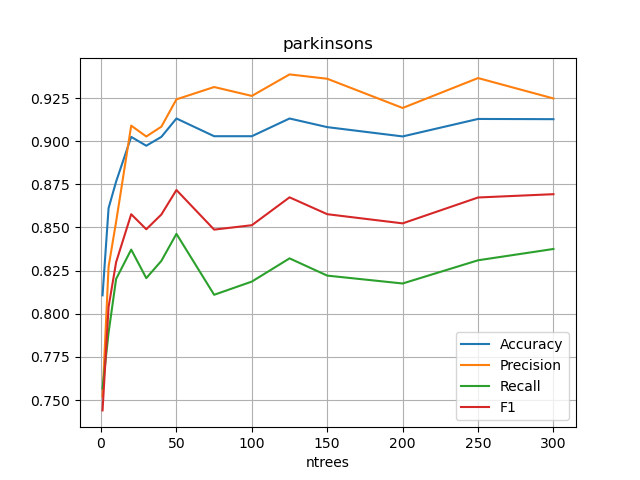
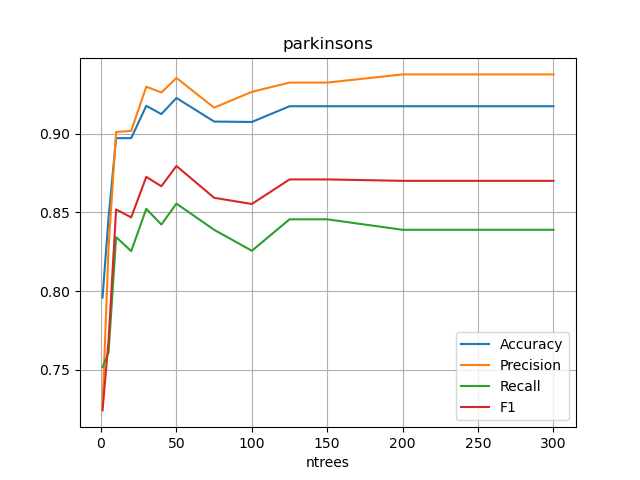
more editing to writeup

diff --git a/william/random_forest.py b/william/random_forest.py
@@ -10,7 +10,7 @@ import multiprocessing as mp
 
 
 class RandomForest:
-    def __init__(self, ntrees, k_fold=5, random_state=None, args=None):
+    def __init__(self, ntrees, k_fold=10, random_state=None, args=None):
         self.ntrees = ntrees
         self.ensemble = []
         self.k_fold = k_fold

diff --git a/william/credit_approval_results.md b/william/credit_approval_results.md
@@ -256,9 +256,9 @@ Mean Test Metrics:
 
 We found the Testing set resemble the training set in accuracy, precision, recall, and F1. This further boost the confidence of reliable results.  
 
-As we can see, $k$-NN improves performs from k=1 tp 7, as the model seek closeness from kneighboring data points. All accuracy, precision, recall, and F1 peaks at k=7, indicating maximum signal when k=7. As more data points included, the signal is diluted, and performance decline, until k=20. Performances slowly climbs afterwards for both training and testing sets. It never reach previous peaks on training set. 
+As we can see, $k$-NN improves performance from $k=1$ to 7, as the model seeks closeness from $k$ neighboring data points. Accuracy, precision, recall, and F1 all peak at $k=7$, indicating maximum signal when $k=7$. As more data points included, the signal is diluted, and performance declines until $k=20$. Performance slowly climbs afterwards for both the training and testing sets. It never reach previous peaks on training set. 
 
-How to pick the best $k$ values? I would like to pick k= 5, 7, and 9. From charts, all accuracy, precision, recall, and F1 are about 0.87, for training set. Such results are confimed in testing set. For credit approval application, false positive means big financial loss from persons who can not pay back. So high precision is very beneficial. The highest F1 near 0.87 shows robustness of these result. 
+How to pick the best $k$ values? I would like to pick $k= 5, 7,$ and 9. From the charts, accuracy, precision, recall, and F1 are all about 0.87 for the training set. Such results are confirmed in the testing set. For credit approval application, false positives mean big financial losses from people who cannot pay back. So high precision is very beneficial. The highest F1 near 0.87 shows the robustness of these results. 
 
 Ideally, I would peak the optimal $k=7$, exactly at the performance peak, with surrounding performance at $k=5$ and 9 also stable and good.
 
@@ -267,7 +267,7 @@ Ideally, I would peak the optimal $k=7$, exactly at the performance peak, with s
 
 \newpage
 
-## 2. Random Forest
+### 2. Random Forest
 
 ```
 $ python random_forest.py --help
@@ -307,7 +307,7 @@ optional arguments:
 
 Use use -ntrees -1 to let the random forest algorithms to loop over [1 5 10 20 30 40 50 75 100 125 150 200 250 300] trees.  
 
-To handle the large computational demand, multiprocessing are used to use multicores (overcome python GIL lock). multiprocessing queues are used to feed workers with tasks, and collect results.  For details,  please see code.  
+To handle the large computational demand, multiprocessing is used to use multicores (overcome python GIL lock). Multiprocessing queues are used to feed workers with tasks and collect results.  For details,  please see code.  
 
 
 ```
@@ -382,16 +382,16 @@ Random Forest Performance:
 ![Random Forest by Gini: Credit Approval](./img/rf_credit_approval_adj_gini.png)   
 
 
-Both entropy and the Gini index offer very similar performances. They all start with low accuracy, precision, recall, and F1  for low `ntrees` counts. This is expected, as a random forest relies on collecting the wisdom of weak learners. Each decision tree offers better than random performance, but it is far from stellar. As `ntrees` reaches 40, performance is significantly improved, with accuracy 0.841 and F1 0.840. The model continues to improve, synergizing the knowledges of more decision trees, until ntrees around 125. This is the point all metrics peak together, with accuracy 0.857, precision 0.865, recall 0.850, and F1 0.854. Then the performance more or less is flat. This is the point of diminishing return for more computing. 
+Both entropy and the Gini index offer very similar performances. They all start with low accuracy, precision, recall, and F1  for low `ntrees` counts. This is expected, as a random forest relies on collecting the wisdom of weak learners. Each decision tree offers better than random performance, but it is far from stellar. As `ntrees` reaches 40, performance is significantly improved, with accuracy 0.841 and F1 0.840. The model continues to improve, synergizing the knowledges of more decision trees, until `ntrees` is around 125. This is the point where all metrics peak together, with accuracy 0.857, precision 0.865, recall 0.850, and F1 0.854. Then the performance more or less is flat. This is the point of diminishing returns for more computing. 
 
 The chart by the Gini index is similar with small variations. This confirmation is welcome in our analysis.
 
 Since the performance is stable and very flat from `ntrees` 100 to 300, we would pick the peak performance near the low end `ntrees = 125` as the optimal hyperparameter for the random forest algorithm for highest performance. 
 
 
-## 3. NN
+### 3. NN
 
-We should caution against overfitting with deep and dense neural network. We only have 584 data samples. Considering there are 46 features in the data after one-hot encoding, if the first layer has 16 neurons, it takes $46 x 16 = 736$ parameters, which is more than our data points. 
+We should caution against overfitting with deep and dense neural networks. We only have 584 data samples. Considering there are 46 features in the data after one-hot encoding, if the first layer has 16 neurons, it takes $46 x 16 = 736$ parameters, which is more than the number of our data points. 
 
 ```
 $ python nn.py --help
@@ -433,9 +433,9 @@ optional arguments:
                         Project name prefix, like myproject, default proj
 ```
 
-We want to build a simple network with strong performance, rather than a complex network of over curve-fitting. So we start explore network with single hidden layer with low neuron count, then two hidden layers, then three hidden layers. We shall see that a moderate network is adequate. 
+We want to build a simple network with strong performance, rather than a complex network of over curve-fitting. So we start by exploring a network with a single hidden layer with a low neuron count, then two hidden layers, then three hidden layers. We shall see that a moderate network is adequate. 
 
-The tuning of learning rate and regularization rate are key to performing model.  
+The tuning of the learning rate and regularization rate is key to a performing model.  
 
 
 ```
@@ -476,17 +476,17 @@ $ python nn.py --hidden_neurons "16 16" -lr 0.01 -rlambda 0.01 \
 (* indicates the best network configuration.)
 
 
-For single layer, as we can see the perfornace metrics are similar for nurons 2, 4, 8, 16 and 32. They all have low loss around 0.35 , accuracy 0.86, precision 0.86, recall 0.86, and F1 0.86.  This hint simple network with low neurons. It might suggest more than 8 neurons are unnecessary complexity, yet less that 2 is unnecessay limiting.
+For a single layer, as we can see the performance metrics are similar for nurons 2, 4, 8, 16 and 32. They all have low loss around 0.35 , accuracy 0.86, precision 0.86, recall 0.86, and F1 0.86.  This hints a simple network with low neurons. It might suggest that more than 8 neurons are unnecessarily complex, yet less than 2 is unnecessarily limiting.
 
-From the above table, we can see that network with two hdden layers are in general not much better performing than the single hidden layer. Some more complexed models performs a lot worse. 
+From the above table, we can see that a network with two hidden layers are in general not much better performing than the single hidden layer. Some more complex models perform a lot worse. 
 
-Three hidden layers does not help performance. It seems brittle: with small channges and the performances tanks.  This is like due to overfitting. 
+Three hidden layers does not help performance. It seems brittle: with small changes, performance tanks.  This is likely due to overfitting. 
 
-We ar mostly interesting in simple network with two hidden layers, for these reasons: it is as performing as single layer but offer a lot more options to tune. In particular, we pick hidden layer [8, 2] network to further tune for crank up performance.  
+We are mostly interested in a simple network with two hidden layers, for these reasons: it is as performing as a network with a single layer but offers a lot more options to tune. In particular, we pick hidden layer [8, 2] network to further tune for cranking up performance.  
 
-#### Tune hyperparameters
+#### Tuning hyperparameters
 
-Since the dataset is credit approval, F1 and accuracy is of ultimate importance, because it could mean that the business could avoid unnecessary loss for bad approvals, or missed profit for deny qualified applicants. For the same or close accuracy and F1 values, we would like the ones with lower loss because the higher confidence it implied.  
+Since the dataset is for credit approvals, F1 and accuracy is of ultimate importance, because it could mean that the business could avoid unnecessary losses for bad approvals, or missed profits from denying qualified applicants. For the same or close accuracy and F1 values, we would like the ones with lower losses due to the higher confidence they implied.  
 
 | NN | batch size | lr | rlambda | loss | Accuracy | Precision | Recall | F1 |
 | :---: | :-: | :-: | :-: | :-: | :-: | :-: | :-: | :-: |
@@ -538,6 +538,8 @@ F1           0.880599
 
 ![Best Ranked](./img/proj_credit_approval_adj_best.png)
 
+<!--
+
 ![Fold 1](./img/proj_credit_approval_adj_1.png)
 
 ![Fold 2](./img/proj_credit_approval_adj_2.png)
@@ -558,21 +560,23 @@ F1           0.880599
 
 ![Fold 10](./img/proj_credit_approval_adj_10.png)
 
+-->
+
 ### 4. Summary 
 
-All KNN, random forest, and NN delived solid results:    
+All KNN, random forest, and NN delivered solid results:    
 
 ```
 KNN:  accuracy 0.8715 F1 0.8701
-RD:   accuracy 0.8575 F1 0.8537
+RF:   accuracy 0.8575 F1 0.8537
 NN:   accuracy 0.8808 F1 0.8806
 ```
 
-All accuracy > 0.85, all F1 > 0.85. The consistency boost our confidence in the results.  
+All accuracy > 0.85, and all F1 > 0.85. The consistency boosts our confidence in the results.  
 
-RF show remarkable resistance to noise, with stable and consistent high performance for $ntrees \ge 125$.  
+RF shows remarkable resistance to noise, with stable and consistent high performance for `ntrees` $\ge 125$.  
 
-NN is the top performer here. We know NN shines on large data set. But we only have 653 data samples here. This shows the power of NN and proper hyperparameter tunning.
+NN is the top performer here. We know NN shines on a large data set. But we only have 653 data samples here. This shows the power of NN and proper hyperparameter tuning.
 
-KNN performers well here too. This might due to the clean data set in credit approval dataset, despite those data tends to be noisy. All features are more or less equally important. And, it has moderate demension. This is where KNN shines.
+KNN performs well here too. This might be due to the clean data in the credit approval dataset, despite the data tending to be noisy. All features are more or less equally important. It also has a moderate dimension. This is where KNN shines.
 

diff --git a/william/parkinsons_results.md b/william/parkinsons_results.md
@@ -261,45 +261,49 @@ optional arguments:
                         Early majority stop threshold like 0.85, default 1.00
   --random_state RANDOM_STATE
                         random seed like 42, -5, default None
+```
 
+\
 
 Use `-ntrees -1` to let the random forest algorithm loop over [1 5 10 20 30 40 50 75 100 125 150 200 250 300] trees.  
 
 To handle the large computational demand, multiprocessing is used to use multicores (overcome python GIL lock). Multiprocessing queues are used to feed workers with tasks and collect results. For details, please see the code.  
 
+```
 $ python random_forest.py -bst true --random_state 42 -p parkinsons.csv
 
-Random Forest Performance: 
+Random Forest Performance:
     Accuracy  Precision    Recall        F1
-1   0.810688   0.752122  0.756743  0.743992
-5   0.861215   0.827278  0.789080  0.803977
-10  0.876606   0.853321  0.820192  0.829893
-20  0.902517   0.909036  0.837203  0.857684
-30  0.897389   0.902747  0.820651  0.848971
-40  0.902517   0.908428  0.830651  0.857514
-50  0.913171   0.924270  0.846322  0.871725
+1   0.795877   0.726777  0.751667  0.724058
+5   0.846959   0.827656  0.760952  0.768689
+10  0.897222   0.901152  0.834286  0.851880
+20  0.897222   0.901847  0.825357  0.846831
+30  0.917778   0.929942  0.852262  0.872610
+40  0.912515   0.926241  0.842262  0.866618
+50  0.922778   0.935527  0.855595  0.879533
+```
 
 All our algorithms are properly handling random state, making results repeatable.  
 
+```
 $ python random_forest.py -bst true -ntrees -1 --random_state 42 -p parkinsons.csv 
 
 Random Forest Performance:
      Accuracy  Precision    Recall        F1
-1    0.810688   0.752122  0.756743  0.743992
-5    0.861215   0.827278  0.789080  0.803977
-10   0.876606   0.853321  0.820192  0.829893
-20   0.902517   0.909036  0.837203  0.857684
-30   0.897389   0.902747  0.820651  0.848971
-40   0.902517   0.908428  0.830651  0.857514
-50   0.913171   0.924270  0.846322  0.871725
-75   0.902908   0.931414  0.810996  0.848773
-100  0.902908   0.926258  0.818659  0.851321
-125  0.913171   0.938731  0.832107  0.867483
-150  0.908171   0.936210  0.822107  0.857708
-200  0.902780   0.919270  0.817548  0.852392
-250  0.912908   0.936608  0.830996  0.867389
-300  0.912780   0.924785  0.837548  0.869305
-
+1    0.795877   0.726777  0.751667  0.724058
+5    0.846959   0.827656  0.760952  0.768689
+10   0.897222   0.901152  0.834286  0.851880
+20   0.897222   0.901847  0.825357  0.846831
+30   0.917778   0.929942  0.852262  0.872610
+40   0.912515   0.926241  0.842262  0.866618
+50   0.922778   0.935527  0.855595  0.879533
+75   0.907778   0.916609  0.838929  0.859276
+100  0.907515   0.926679  0.825595  0.855340
+125  0.917515   0.932561  0.845595  0.870965
+150  0.917515   0.932561  0.845595  0.870965
+200  0.917515   0.937770  0.838929  0.870066
+250  0.917515   0.937770  0.838929  0.870066
+300  0.917515   0.937770  0.838929  0.870066
 ```
 
 ![Random Forest: Parkinsons](./img/rf_parkinsons_entropy.png)   
@@ -311,20 +315,21 @@ We also explored the Gini index to see whether it offers improvement over entrop
 $ python random_forest.py -bst true -ntrees -1 -gini true --random_state 42 -p parkinsons.csv
 Random Forest Performance:
      Accuracy  Precision    Recall        F1
-1    0.789501   0.722170  0.741724  0.725693
-5    0.876862   0.859376  0.806973  0.822951
-10   0.876734   0.853395  0.822299  0.829350
-20   0.892247   0.881943  0.823870  0.842421
-30   0.902645   0.906008  0.831762  0.856761
-40   0.897517   0.901399  0.821762  0.848041
-50   0.897645   0.908642  0.814100  0.844437
-75   0.887254   0.899238  0.792989  0.826783
-100  0.887254   0.892997  0.800651  0.829498
-** 125  0.897382   0.916576  0.806437  0.841780
-150  0.897382   0.916576  0.806437  0.841780
-200  0.902645   0.921372  0.817548  0.850715
-250  0.902645   0.921372  0.817548  0.850715
-300  0.902645   0.921372  0.817548  0.850715
+1    0.815614   0.754211  0.798095  0.762186
+5    0.820322   0.799579  0.743333  0.739653
+10   0.892515   0.874021  0.853214  0.850105
+20   0.903070   0.912780  0.837857  0.854952
+30   0.913333   0.927066  0.844762  0.866985
+40   0.908070   0.920537  0.841429  0.862526
+** 50   0.923333   0.945607  0.851429  0.879419
+75   0.912778   0.928137  0.835595  0.862725
+100  0.912515   0.935012  0.828929  0.861610
+125  0.912515   0.935012  0.828929  0.861610
+150  0.917515   0.937770  0.838929  0.870066
+200  0.912515   0.935012  0.828929  0.861610
+250  0.912515   0.935012  0.828929  0.861610
+300  0.912515   0.935012  0.828929  0.861610
+
 
 (** indicates the optimal tuning parameters)
 ```
@@ -332,11 +337,11 @@ Random Forest Performance:
 ![Random Forest by Gini: Parkinsons](./img/rf_parkinsons_gini.png)   
 
 
-Both entropy and the Gini index offer very similar performances. They all start with low accuracy, precision, recall, and F1  for low `ntrees` counts. This is expected, as a random forest relies on collection of the wisdom of weak learners. Each decision tree offers better than random performance, but it is far from stellar. As `ntrees` reaches 20, performances are significantly improved, with accuracy 0.90 and F1 0.85. The model continues to improve, synergizing the knowledge of more decision trees, until `ntrees` = around 125. This is the point where all metrics peak together, with accuracy 0.913, precision 0.939, recall 0.832, and F1 0.867. Then the performance more or less is flat. This is the point of diminishing returns for more computing. 
+Both entropy and the Gini index offer very similar performances. They all start with low accuracy, precision, recall, and F1  for low `ntrees` counts. This is expected, as a random forest relies on collection of the wisdom of weak learners. Each decision tree offers better than random performance, but it is far from stellar. As `ntrees` reaches 20, performances are significantly improved, with accuracy 0.90 and F1 0.85. The model continues to improve, synergizing the knowledge of more decision trees, until `ntrees` = around 50. This is the point where all metrics peak together, with accuracy 0.923, precision 0.936, recall 0.856, and F1 0.880. Then the performance more or less is flat. This is the point of diminishing returns for more computing. 
 
 The chart by Gini index is similar. It is just smoother, with less variation. This confirmation is welcome in our analysis.
 
-So, we would pick `ntrees = 125` as the optimal hyperparameter for random forest algorithms. 
+So, we would pick `ntrees = 50` as the optimal hyperparameter for random forest algorithms. 
 
 
 \newpage
@@ -382,6 +387,8 @@ optional arguments:
   -proj PROJECT_NAME_PREFIX, --project_name_prefix PROJECT_NAME_PREFIX
                         Project name prefix, like myproject, default proj
 ```
+
+\
 
 We want to build a simple network with strong performance, rather than a complex network of over curve-fitting. So we start by exploring a network with a single hidden layer with a low neuron count, then two hidden layers, then three hidden layers. We shall see that a moderate network is adequate. 
 
@@ -483,7 +490,9 @@ $ python nn.py --hidden_neurons "8 2" -lr 0.05 -rlambda 0.0004 \
                 --k_epoch_shuffle -1 -kfold 10 --random_state 42 -p parkinsons.csv
 
 Stratified K-Fold losses: 
-[0.418539881293964, 0.12249701755547995, 0.08748663880663718, 0.11358799573722644, 0.47826415872115924, 0.40737977879197607, 0.14949259724423616, 0.033229596585356305, 0.14649928745280563, 0.4056980514434281] 
+[0.418539881293964, 0.12249701755547995, 0.08748663880663718, 0.11358799573722644, \
+0.47826415872115924, 0.40737977879197607, 0.14949259724423616, 0.033229596585356305, \
+0.14649928745280563, 0.4056980514434281] 
 mean loss: 0.2362675003632269
 
 Stratified K-Fold Performances: 
@@ -503,6 +512,7 @@ Stratified K-Fold Performances:
 
 ![Optimal NN](./img/proj_parkinsons_best.png)
 
+<!--
 ![Fold 1](./img/proj_parkinsons_1.png)
 
 ![Fold 2](./img/proj_parkinsons_2.png)
@@ -523,10 +533,11 @@ Stratified K-Fold Performances:
 
 ![Fold 10](./img/proj_parkinsons_10.png)
 
+-->
 
 ### 4. Summary 
 
-All KNN, random forest, and NN delived solid results:    
+All of KNN, random forest, and NN deliveredd solid results:    
 
 ```
 KNN:  accuracy 0.9373 F1 0.9161
@@ -534,13 +545,13 @@ RD:   accuracy 0.8974 F1 0.8418
 NN:   accuracy 0.8128 F1 0.8803
 ```
 
-All accuracy > 0.89, all F1 > 0.84. The consistency boost our confidence in the results.  
+All accuracy > 0.89, and all F1 > 0.84. The consistency boosts our confidence in the results.  
 
-RF show remarkable resistance to noise, with stable and consistent high performance for $ntrees \ge 125$.  
+RF shows remarkable resistance to noise, with stable and consistent high performance for `ntrees` $\ge 125$.  
 
-KNN is the top performer here. This might due to the clean data set in Parkinsons dataset. All features are more or less equally important. And, it has moderate demension. This is where KNN shines.
+KNN is the top performer here. This might due to the clean data in the Parkinson's dataset. All features are more or less equally important. And it has a moderate demension. This is where KNN shines.
 
-NN performs well too. We know NN shines on large data set. But we have less than 200 data samples here. This shows the power of NN and proper hyperparameter tunning.
+NN performs well too. We know that NN shines on large data sets. But we have less than 200 data samples here. This shows the power of NN and proper hyperparameter tuning.
 
 
 

diff --git a/william/summary_results.md b/william/summary_results.md
@@ -34,4 +34,13 @@ BOLD indicates the highest performance.
 RF*: Random Forest
 
 
+\newpage  
 
+# Summary of Results
+
+| Algorithm    | Credit Approval |               | Parkinsons    |               | Rice Grains   |               | Hand-Written Digits |               |
+|--------------|:---------------:|:-------------:|:-------------:|:-------------:|:-------------:|:-------------:|:-------------------:|:-------------:|
+|              | **Accuracy**    | **F1**        | **Accuracy**  | **F1**        | **Accuracy**  | **F1**        | **Accuracy**        | **F1**        |
+| KNN          | 0.8715          | 0.8701        | <span style="color: #666;">0.9373</span> | <span style="color: #666;">0.9161</span> | 0.888         | 0.888         | 0.888               | 0.888         |
+| RF*          | 0.8575          | 0.8537        | 0.8974        | 0.8418        | 0.888         | 0.888         | 0.888               | 0.888         |
+| NN           | <span style="color: #666;">0.8808</span> | <span style="color: #666;">0.8806</span> | 0.9128        | 0.8803        | 0.888         | 0.888         | 0.888               | 0.888         |
